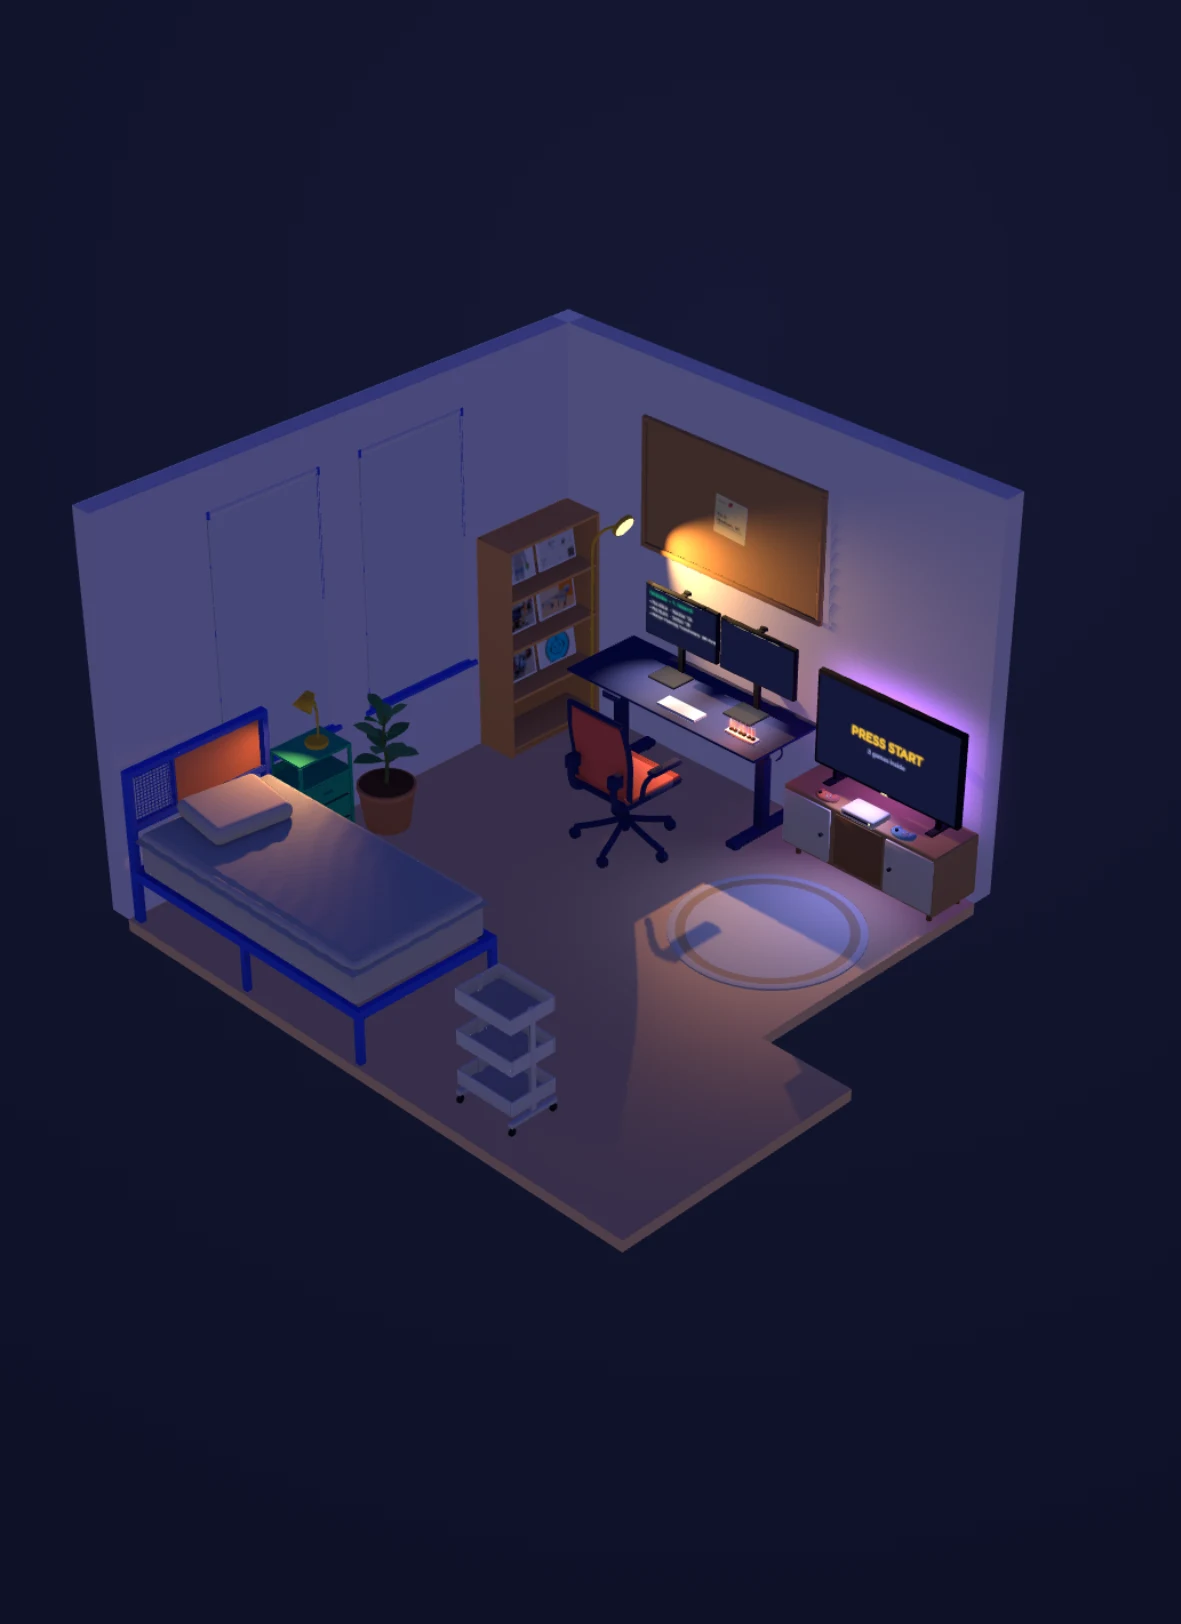
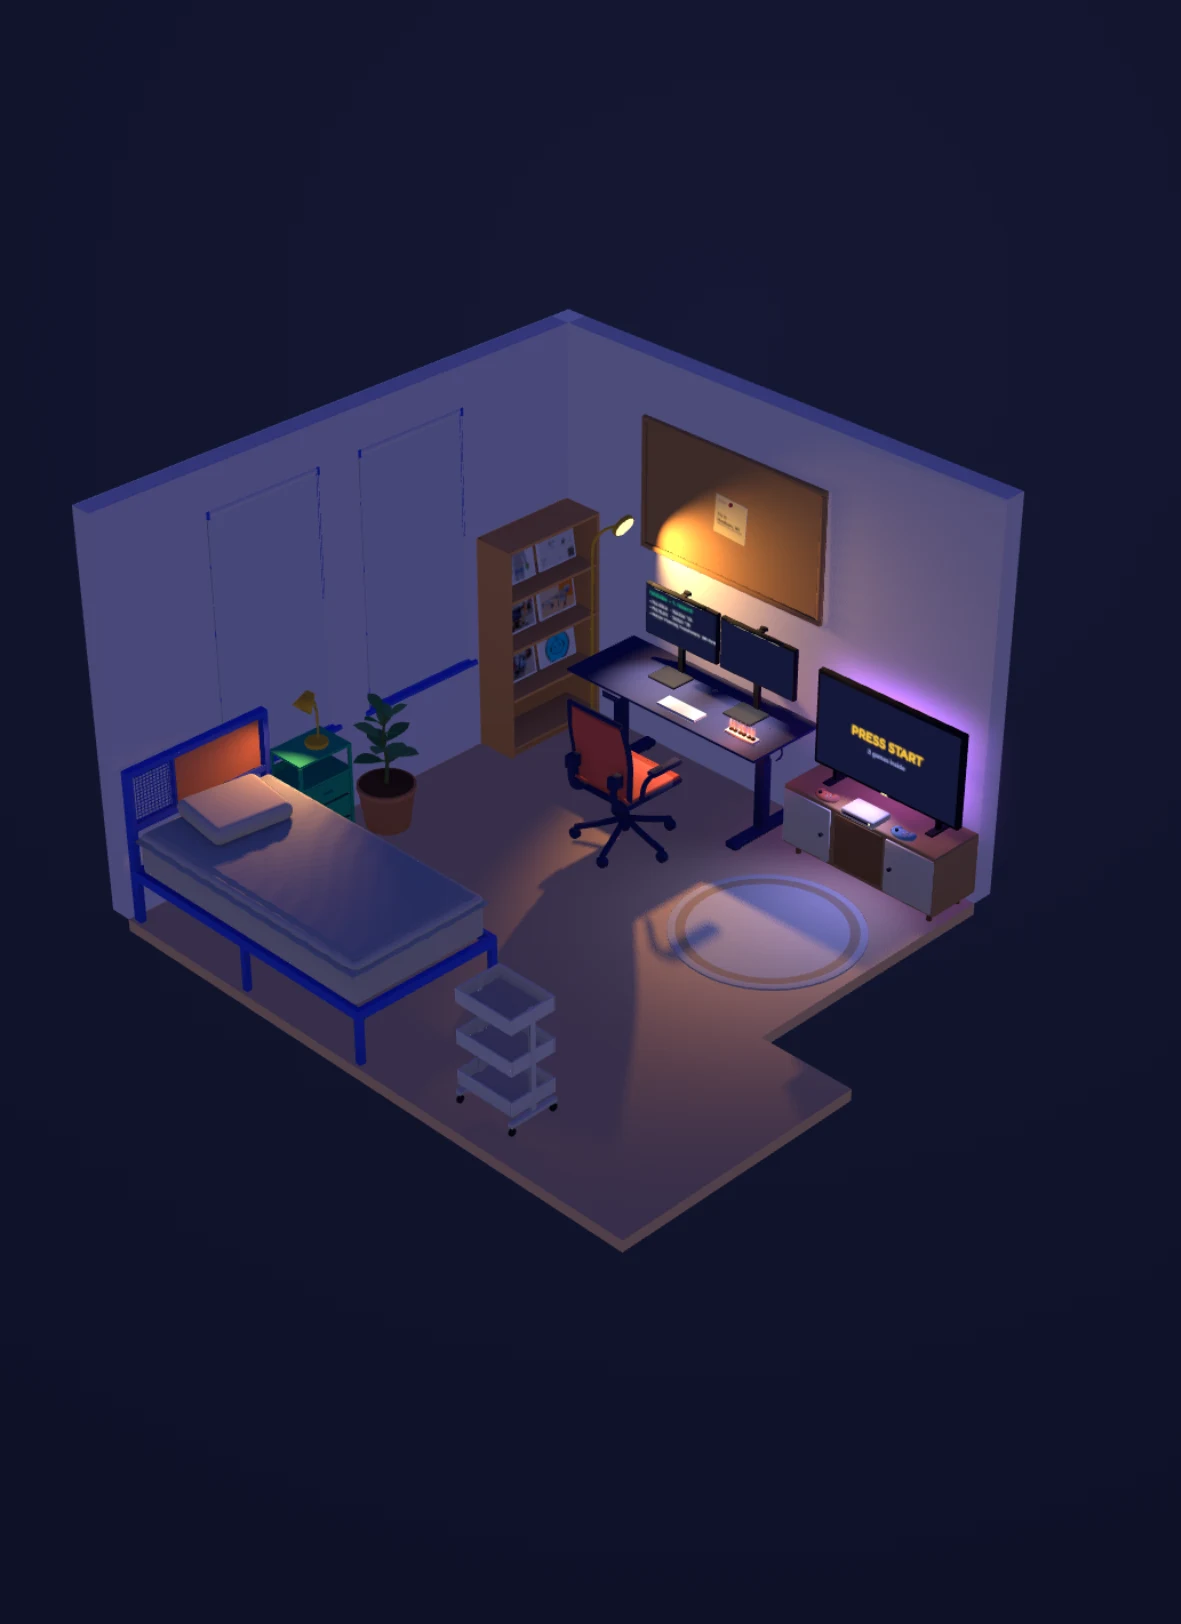
Board card click goes to it on the page; map ready in the room; softer lamp light
- In the board close-up, a click on a card leaves the room and scrolls the
  page to that card (it hops once). onNavigate/visit carry the item.
- RoomPanel announces the view level (`roomlevel`); the distance card starts
  when the room opens, so the board shows its map even if the page's
  Playground was never scrolled to.
- Spot shadows at 1024 with soft edges, a wider and softer floor-lamp cone,
  and lamps no longer shade their own light: no more stair steps and hard
  lines on the pinboard at night.
- Floor lamp: pole now joins the lamp head (re-exported from Blender).
- Opaque top bar; the Games lede is gone.

diff --git a/src/scripts/room.ts b/src/scripts/room.ts
@@ -89,7 +89,8 @@ export interface RoomOptions {
   section: string;
   theme: 'light' | 'dark';
   reduceMotion: boolean;
-  onNavigate: (section: string) => void;
+  /** Leave the room for `section` on the page (and, if given, that item in it). */
+  onNavigate: (section: string, item?: string) => void;
   /** A click asks for a close-up (CLOSEUPS); the panel opens it with `focus`, so it can keep the history. */
   onFocus: (id: string) => void;
   /** A click asks to go up one level (e.g. beside the board in its close-up). */
@@ -137,11 +138,13 @@ export async function mountRoom(frame: HTMLElement, opts: RoomOptions) {
   Object.assign(sun.shadow.camera, { left: -5, right: 5, top: 5, bottom: -5, near: 1, far: 20 });
   // Night lights are spots, so lamp shades and screens light a cone instead of the whole room.
   // `shadow` makes furniture block them (the bed for the bedside lamp, the desk for the floor lamp).
-  const spot = (color: number, angle: number, dist: number, shadow = false) => {
-    const l = new SpotLight(color, 0, dist, angle, 0.7, 1.5);
+  const spot = (color: number, angle: number, dist: number, shadow = false, penumbra = 0.7) => {
+    const l = new SpotLight(color, 0, dist, angle, penumbra, 1.5);
     if (shadow) {
       l.castShadow = true;
-      l.shadow.mapSize.set(512, 512);
+      // 1024 and a soft edge: at 512 the board's shadow on the wall beside it read as stair steps.
+      l.shadow.mapSize.set(1024, 1024);
+      l.shadow.radius = 4;
       l.shadow.bias = -0.002;
       l.shadow.normalBias = 0.02;
       l.shadow.camera.near = 0.05;
@@ -149,7 +152,8 @@ export async function mountRoom(frame: HTMLElement, opts: RoomOptions) {
     scene.add(l, l.target);
     return l;
   };
-  const lampL = spot(0xffc06a, 0.9, 5, true);
+  // Wide and soft: a tighter cone cut a hard diagonal across the pinboard next to it.
+  const lampL = spot(0xffc06a, 1.15, 5, true, 1);
   const bedL = spot(0xffa860, 0.95, 3, true);
   // One per monitor light bar (LIGHTS.screen).
   const screenLs = LIGHTS.screen.map(() => spot(0xfff1dc, 0.65, 1.6, true));
@@ -314,7 +318,8 @@ export async function mountRoom(frame: HTMLElement, opts: RoomOptions) {
       if (!(o instanceof Mesh)) return;
       const role = (o.material as Material).name as Role;
       o.material = material(role, p.colors?.[role], o.geometry.hasAttribute('color'), (o.material as Material).side, p.ao !== false && o.geometry.hasAttribute('_ao'), role === 'glow' && lampIds.has(p.id) ? p.id : '');
-      o.castShadow = role !== 'glass';
+      // A lamp's own head would shade its light with a hard edge right beside it (the pinboard).
+      o.castShadow = role !== 'glass' && !lampIds.has(p.id);
       o.receiveShadow = true;
     });
     // A section hidden on the page (e.g. Playground) leaves its object as plain decoration.
@@ -1407,10 +1412,10 @@ export async function mountRoom(frame: HTMLElement, opts: RoomOptions) {
   // Picking a section in the full-screen room: fly to its shot first, then hand over to the page
   // (which shrinks the room back into the panel and scrolls there).
   let flying = false;
-  const visit = (section: string) => {
+  const visit = (section: string, item?: string) => {
     if (!full || flying) return;
     const s = shots[section];
-    if (!s || opts.reduceMotion) return opts.onNavigate(section);
+    if (!s || opts.reduceMotion) return opts.onNavigate(section, item);
     flying = true;
     controls.enabled = false;
     labels.hidden = true;
@@ -1418,7 +1423,7 @@ export async function mountRoom(frame: HTMLElement, opts: RoomOptions) {
     canvas.style.cursor = '';
     tweenTo(place(s), 700, easeInOut, section, () => {
       flying = false;
-      opts.onNavigate(section);
+      opts.onNavigate(section, item);
     });
   };
 
@@ -1569,12 +1574,17 @@ export async function mountRoom(frame: HTMLElement, opts: RoomOptions) {
     e.stopPropagation();
     const p = press;
     press = null;
+    const still = e.type === 'pointerup' && p && !flying && Math.hypot(e.clientX - p[0], e.clientY - p[1]) < 6;
     if (drag) {
-      if (e.pointerId === drag.id) drop();
+      if (e.pointerId !== drag.id) return;
+      const { i } = drag;
+      drop();
+      // A click (no drag) on a card goes to that card on the page.
+      if (still) visit(CLOSEUPS.board.section, cards[i].id);
       return;
     }
     // A click beside the board goes back to the room.
-    if (e.type === 'pointerup' && p && !flying && Math.hypot(e.clientX - p[0], e.clientY - p[1]) < 6 && !isIn(hitAt(e) ?? null, boardGroup)) opts.onBack();
+    if (still && !isIn(hitAt(e) ?? null, boardGroup)) opts.onBack();
   };
   frame.addEventListener('pointerup', release, { capture: true });
   frame.addEventListener('pointercancel', release, { capture: true });

diff --git a/redesign/PLAN.md b/redesign/PLAN.md
@@ -5,7 +5,7 @@ Personal academic homepage built with **Astro**, with a clay-style 3D model of m
 ## To do
 
 ### 1. Needs new material or bigger work
-- [ ] Playground: more pins, ~10 photos / things (me), then pin → pinboard card highlight. The section is back (2026-10-22) with one card: how far the visitor is from Madison, after joshwcomeau.com/about-josh. A MapLibre map (OpenFreeMap tiles, no key) pulls back from the visitor's pin and draws a dotted great-circle line to my avatar pin; the room's pinboard gets a still of it. Location: city-level IP lookup from the browser via get.geojs.io, else the time zone, else "Where I live and work." (`distance: true` in `playground.yaml`, code in `src/scripts/distance-map.ts`). The map (~440 KB gzip with its worker) loads only when the card nears the viewport
+- [ ] Playground: more pins, ~10 photos / things (me), then pin → pinboard card highlight. The distance card also starts when the full-screen room opens, so the board has its map even if the page's Playground was never scrolled to. The section is back (2026-10-22) with one card: how far the visitor is from Madison, after joshwcomeau.com/about-josh. A MapLibre map (OpenFreeMap tiles, no key) pulls back from the visitor's pin and draws a dotted great-circle line to my avatar pin; the room's pinboard gets a still of it. Location: city-level IP lookup from the browser via get.geojs.io, else the time zone, else "Where I live and work." (`distance: true` in `playground.yaml`, code in `src/scripts/distance-map.ts`). The map (~440 KB gzip with its worker) loads only when the card nears the viewport
 
 ### 2. Deferred
 - Project models for the shelf (deferred 2026-10-21). Toy-sized figurines that fit a 30 cm tier; the item in view lights up. Rover, robotic arm, vehicle from CAD (STEP/STL → decimate → clay roles; fallback: model from photos); IMU = phone + watch + earbuds; SketchGenie = AR headset; Telegram Chatbot = robot head / speech bubble
@@ -32,7 +32,7 @@ Personal academic homepage built with **Astro**, with a clay-style 3D model of m
 | Clarity rule | Everything a professor needs (name, position, research, papers, CV, email) is readable without touching the room |
 | Home layout | Desktop: room fixed on the left (~40–45%), page scrolls on the right. Mobile: list page plus an "Explore my room in 3D" card |
 | Room behavior | Scroll: the section in view picks the object and camera shot, the item in the middle of the viewport picks what it shows. Hover/focus shows that item, never moves the camera. Click or "Enter my room" opens the full-screen room |
-| Views (2026-10-22) | Three levels: page (`#`), full-screen room (`#room`), close-up (`#room/<id>`). Forward goes down one level: "Enter my room" or a click on the panel opens the room; in the room, a click on an object or its label opens its close-up, or goes to its page section if it has none yet. Back always goes up one level, and Esc, the Back buttons and the browser's back all do the same thing. Every close-up has "<Section> on the page". Close-ups are config (`CLOSEUPS` in `room.config.ts`): so far only `board` (drag pinboard cards). `RoomPanel.astro` owns the levels and the history; `room.ts` only flies the camera (`focus`/`unfocus`/`visit`) and runs each close-up's interaction |
+| Views (2026-10-22) | Three levels: page (`#`), full-screen room (`#room`), close-up (`#room/<id>`). Forward goes down one level: "Enter my room" or a click on the panel opens the room; in the room, a click on an object or its label opens its close-up, or goes to its page section if it has none yet. Back always goes up one level, and Esc, the Back buttons and the browser's back all do the same thing. Every close-up has "<Section> on the page". Close-ups are config (`CLOSEUPS` in `room.config.ts`): so far only `board` (drag pinboard cards; a click on a card leaves the room for that card on the page). `RoomPanel.astro` owns the levels and the history; `room.ts` only flies the camera (`focus`/`unfocus`/`visit`) and runs each close-up's interaction |
 | Visual language | "Toy Room": clay shapes, Fredoka + Nunito, electric palette in light mode, "lights off" in dark mode (same switch as the room lights), spring motion, full-color photos |
 | CV | PDF only, linked in the intro and nav; `/cv/` redirects to it |
 | Games | Their own corner in the room; cards say what each game is |
